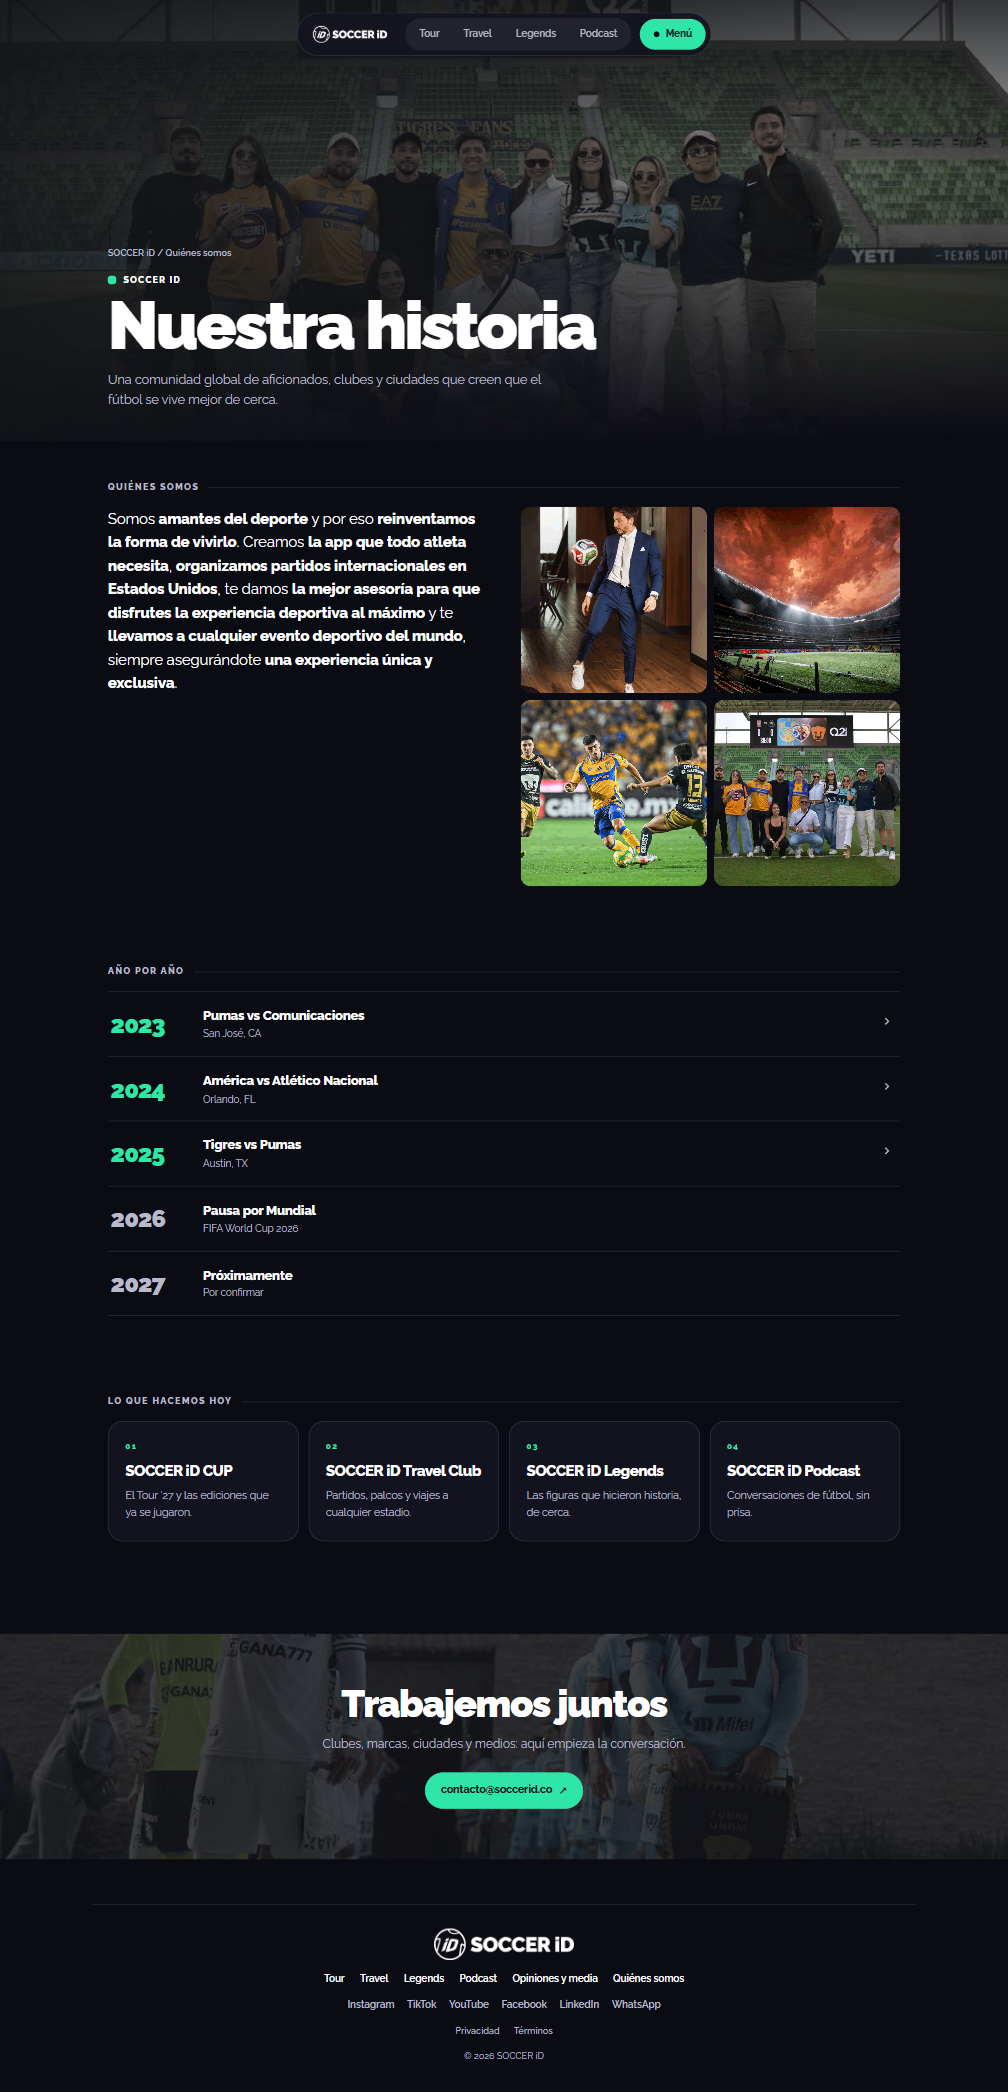
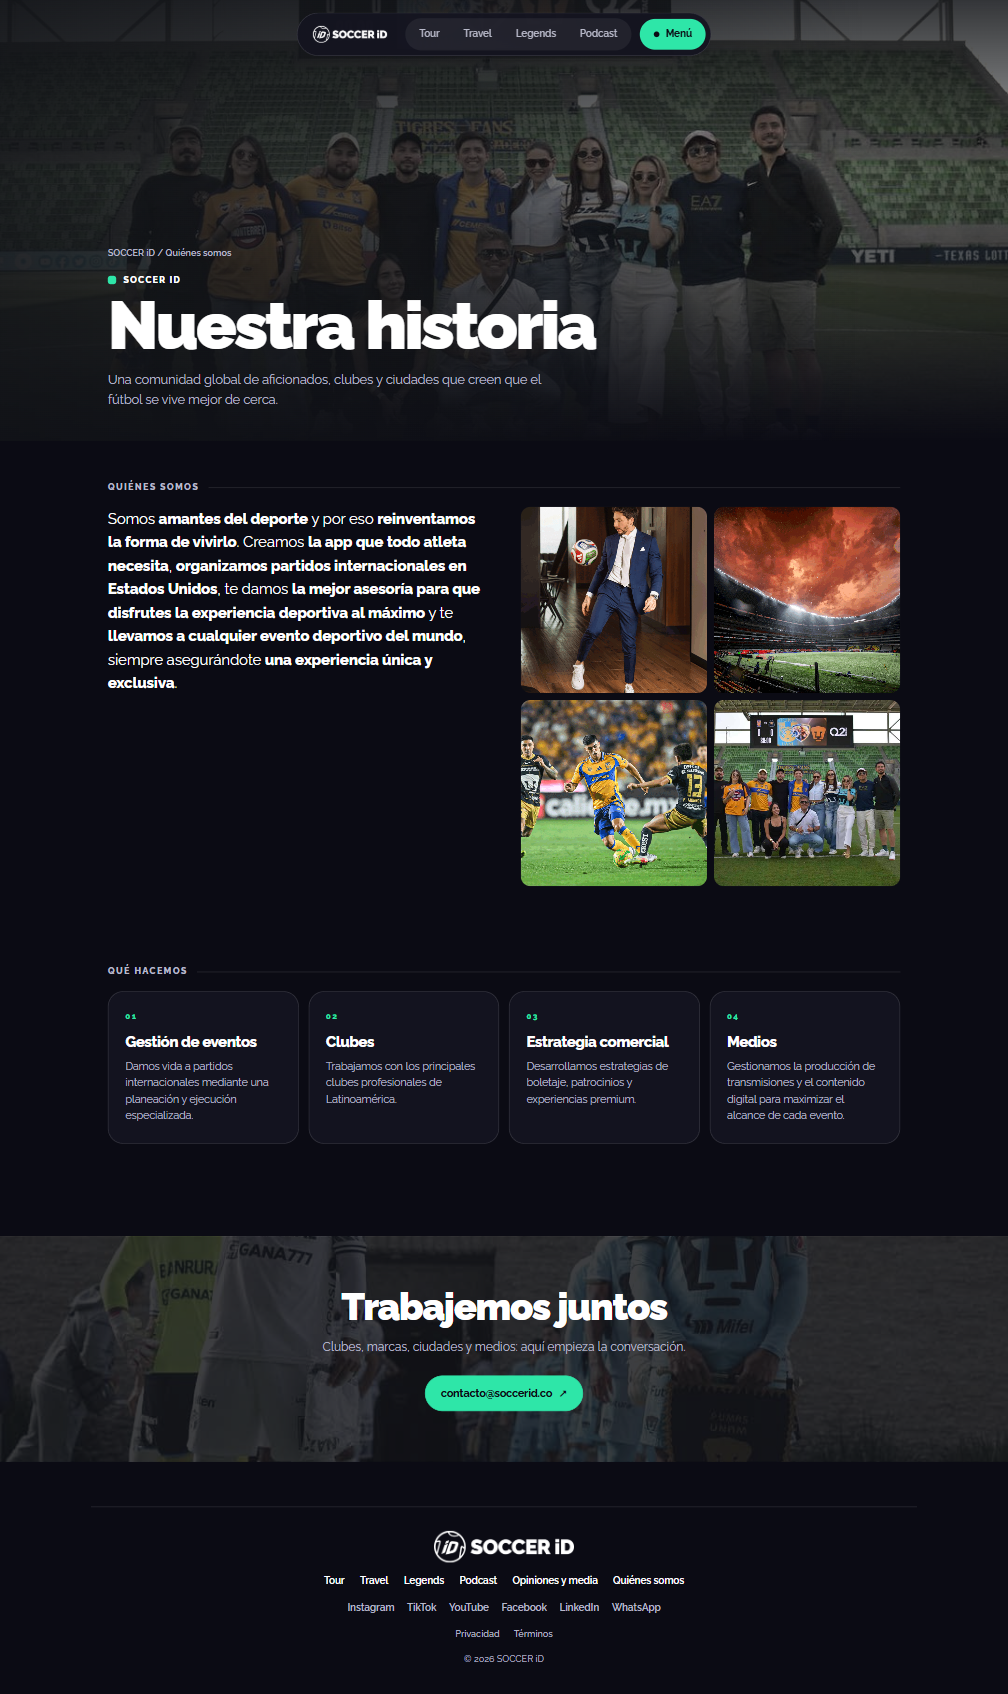
Cada seccion cuenta lo suyo y deja de repetir
Nosotros pintaba las ediciones de la SOCCER iD CUP ano por ano, que son
de Tour, y las cuatro marcas, que son el indice. Fuera las dos. A cambio
recibe «Que hacemos», que estaba en Tour pero habla de la empresa
—gestion de eventos, clubes, estrategia comercial, medios— y no de la
copa. Nosotros pasa de 2988 a 2420 px y Tour de 5689 a 5321.

Media publica ahora los doce reportajes generales en vez de seis: es su
sitio, no un resumen. Comprobado que no se solapan con la prensa de Tour
(cinco notas, todas sobre la copa): cero URLs repetidas entre las dos.

Al reorganizar, el remoto traia un ajuste de otra sesion al bloque movil
de inicio.css —subir las cards 40 px y dar aire a las redes— sobre el
modelo de alturas fijas y margen negativo que este trabajo ya habia
sustituido por una columna flex. Sus lineas no existen en el modelo
nuevo, asi que el conflicto se resolvio a favor de la columna; el hueco
que ese ajuste corregia no se da aqui (medido: 20 px arriba y abajo, con
las cards llenando lo que sobra).

diff --git a/index.js b/index.js
@@ -1885,7 +1885,8 @@ app.get('/:lang/opiniones', rutaV2('opiniones', async (lang, data) => {
     // Seguros iD sale del sitio: una opinión que lo elogia anunciaría un
     // servicio que ya no se ofrece. Se filtra aquí y el JSON queda intacto.
     opiniones: ((t.opiniones || {}).testimonials || []).filter(o => !/seguros\s*id/i.test(o.text || '')),
-    articulos: ((t.media || {}).articles || []).slice(0, 6)
+    // Todos: Media es el sitio de los reportajes generales, no un resumen.
+    articulos: (t.media || {}).articles || []
   };
 }));
 
@@ -1893,15 +1894,9 @@ app.get('/:lang/nosotros', rutaV2('nosotros', async (lang, data) => {
   const q = (data.panel_templates || {}).quienes || null;
   return {
     // Cuatro fotos: con más, la columna de imágenes dobla en alto al texto.
-    quienes: q ? Object.assign({}, q, { gallery: (q.gallery || []).slice(0, 4) }) : null,
-    // La historia año por año: las mismas ediciones que pinta Tour, para
-    // que ningún año se cuente de dos maneras distintas.
-    historia: (await cupEditions.timeline(lang)).map(h => Object.assign({}, h, {
-      match: h.match || (h.tone === 'pause'
-        ? (lang === 'en' ? 'On pause' : 'En pausa')
-        : (lang === 'en' ? 'Coming soon' : 'Próximamente')),
-      city: h.city || (lang === 'en' ? 'To be confirmed' : 'Por confirmar')
-    }))
+    quienes: q ? Object.assign({}, q, { gallery: (q.gallery || []).slice(0, 4) }) : null
+    // Las ediciones de la copa NO se pintan aquí: son de Tour. Esta página
+    // cuenta quiénes somos y nada más.
   };
 }));
 
